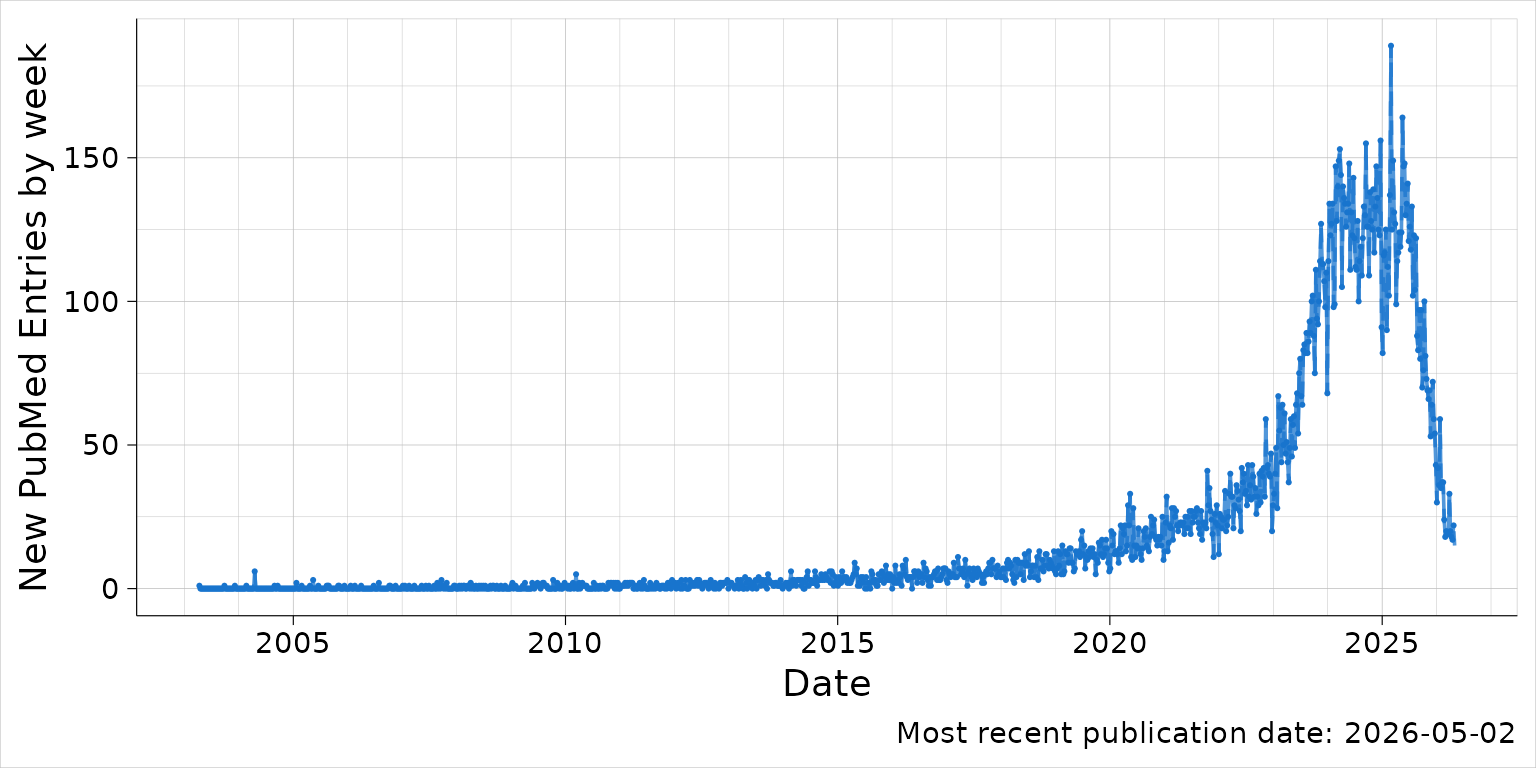
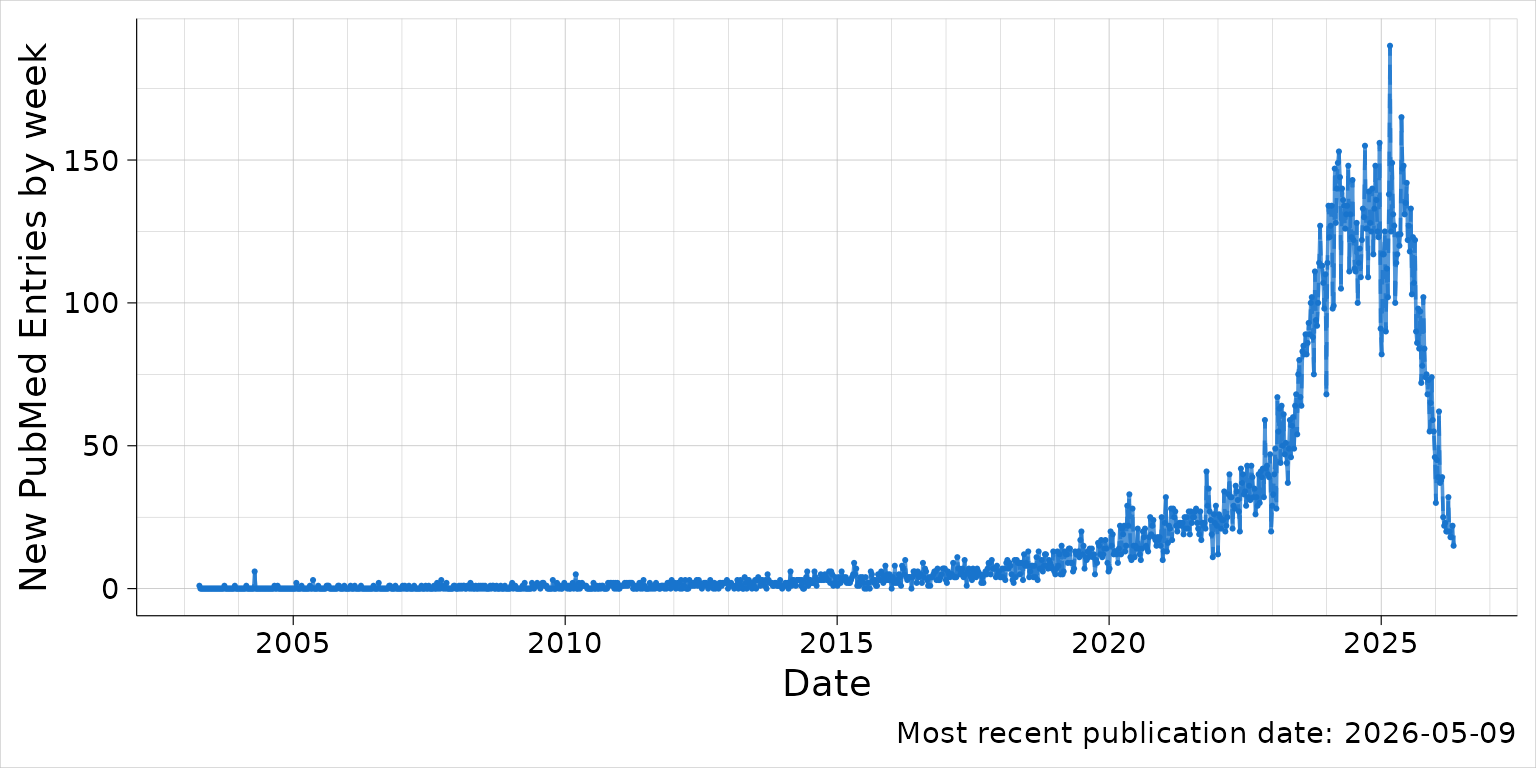
Deploying to gh-pages from @ explodecomputer/PubmedPlot@068eacdf5acdc66ea1c8a3d5640505ac4a8cb4ee 🚀

diff --git a/articles/mr.html b/articles/mr.html
@@ -217,12 +217,12 @@
 <span><span class="co">#&gt; Fetching records 7001 to 7125 </span></span>
 <span><span class="co">#&gt; Searching for year: 2026 </span></span>
 <span><span class="co">#&gt; Search term: "Mendelian randomisation" [tiab] OR "Mendelian randomization" [tiab] AND ("2026/01/01"[dp] : "2026/12/31"[dp]) </span></span>
-<span><span class="co">#&gt; Found 2219 articles matching the search term.</span></span>
+<span><span class="co">#&gt; Found 2326 articles matching the search term.</span></span>
 <span><span class="co">#&gt; Fetching records 1 to 500 </span></span>
 <span><span class="co">#&gt; Fetching records 501 to 1000 </span></span>
 <span><span class="co">#&gt; Fetching records 1001 to 1500 </span></span>
 <span><span class="co">#&gt; Fetching records 1501 to 2000 </span></span>
-<span><span class="co">#&gt; Fetching records 2001 to 2219</span></span>
+<span><span class="co">#&gt; Fetching records 2001 to 2326</span></span>
 <span><span class="co"># write_json(a, "pubmed_abstracts.json", pretty=TRUE)</span></span>
 <span><span class="va">b</span> <span class="op">&lt;-</span> <span class="fu"><a href="../reference/group_by_time_interval.html">group_by_time_interval</a></span><span class="op">(</span><span class="va">a</span><span class="op">)</span></span>
 <span><span class="va">p</span> <span class="op">&lt;-</span> <span class="fu"><a href="../reference/plot_time_interval.html">plot_time_interval</a></span><span class="op">(</span><span class="va">b</span><span class="op">)</span></span></code></pre></div>

diff --git a/articles/mr.md b/articles/mr.md
@@ -157,12 +157,12 @@ a <- PubmedPlot::search_term_by_year('"Mendelian randomisation" [tiab] OR "Mende
 #> Fetching records 7001 to 7125 
 #> Searching for year: 2026 
 #> Search term: "Mendelian randomisation" [tiab] OR "Mendelian randomization" [tiab] AND ("2026/01/01"[dp] : "2026/12/31"[dp]) 
-#> Found 2219 articles matching the search term.
+#> Found 2326 articles matching the search term.
 #> Fetching records 1 to 500 
 #> Fetching records 501 to 1000 
 #> Fetching records 1001 to 1500 
 #> Fetching records 1501 to 2000 
-#> Fetching records 2001 to 2219
+#> Fetching records 2001 to 2326
 # write_json(a, "pubmed_abstracts.json", pretty=TRUE)
 b <- group_by_time_interval(a)
 p <- plot_time_interval(b)
